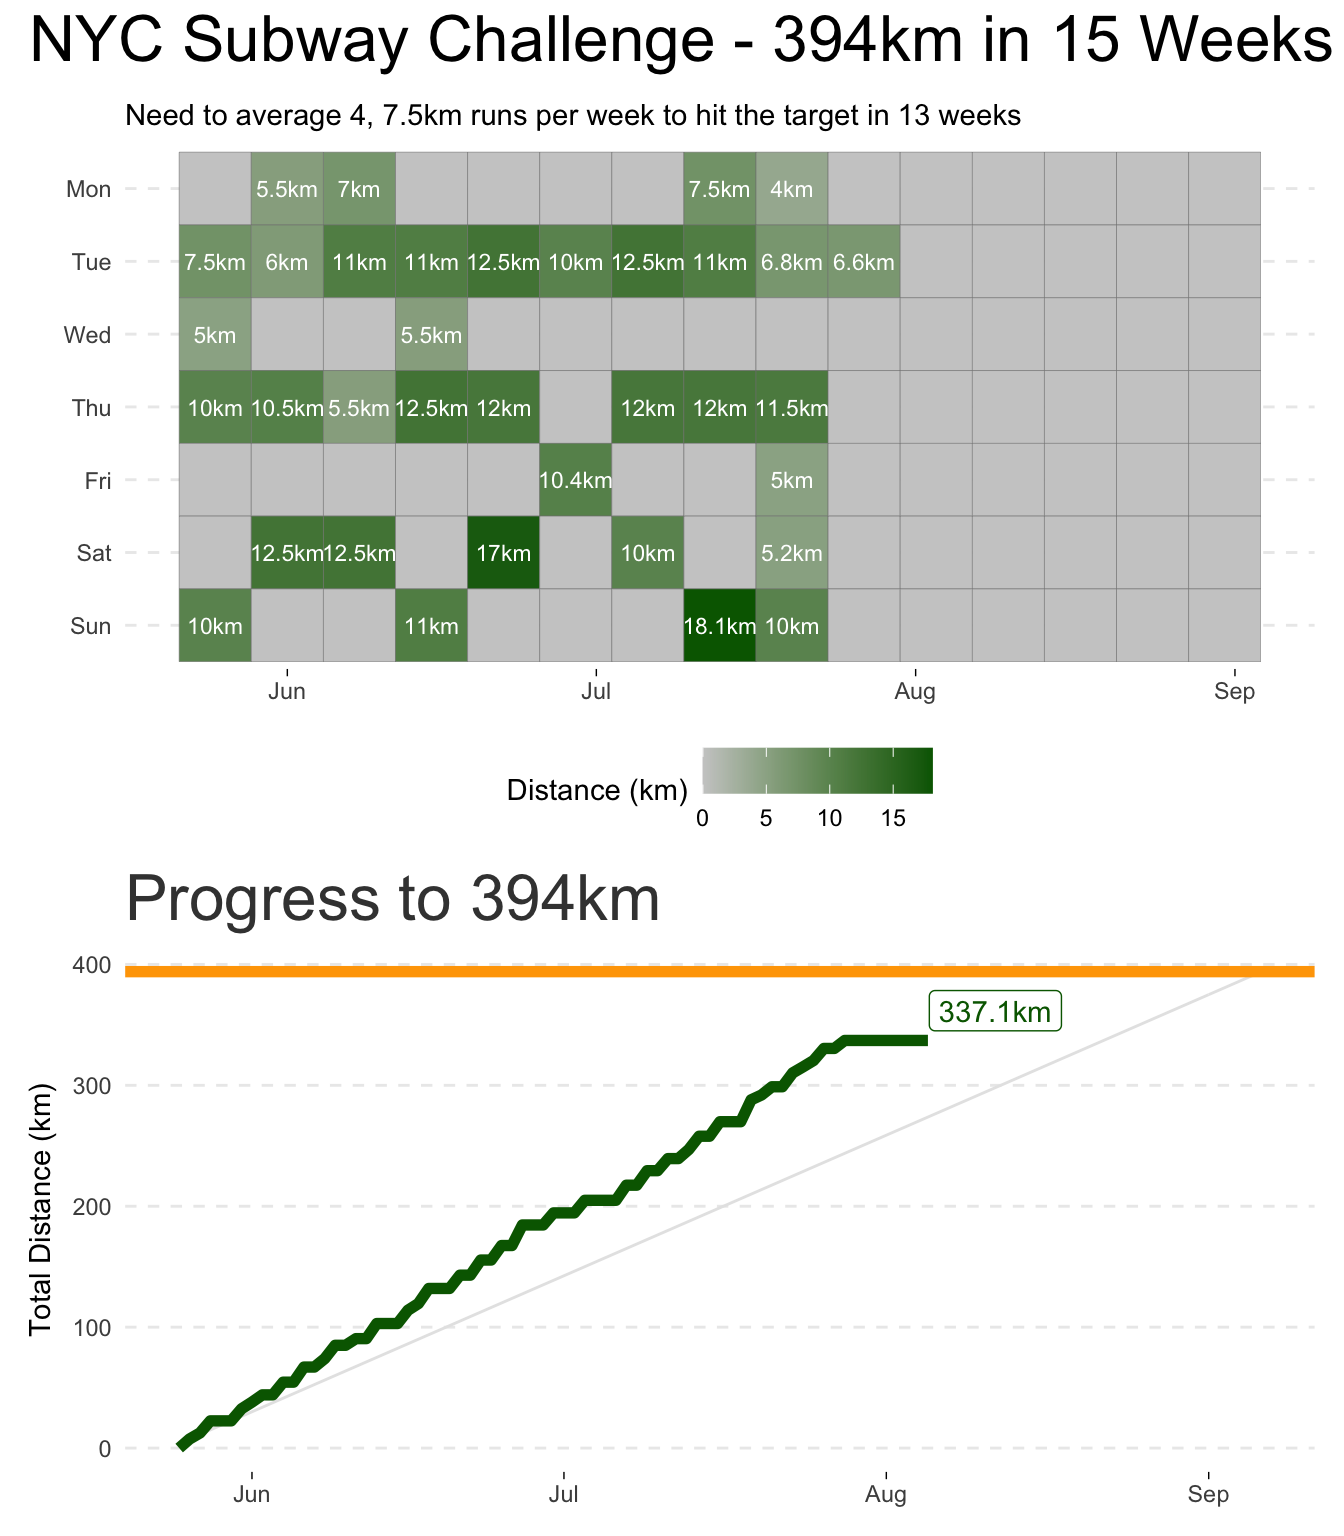
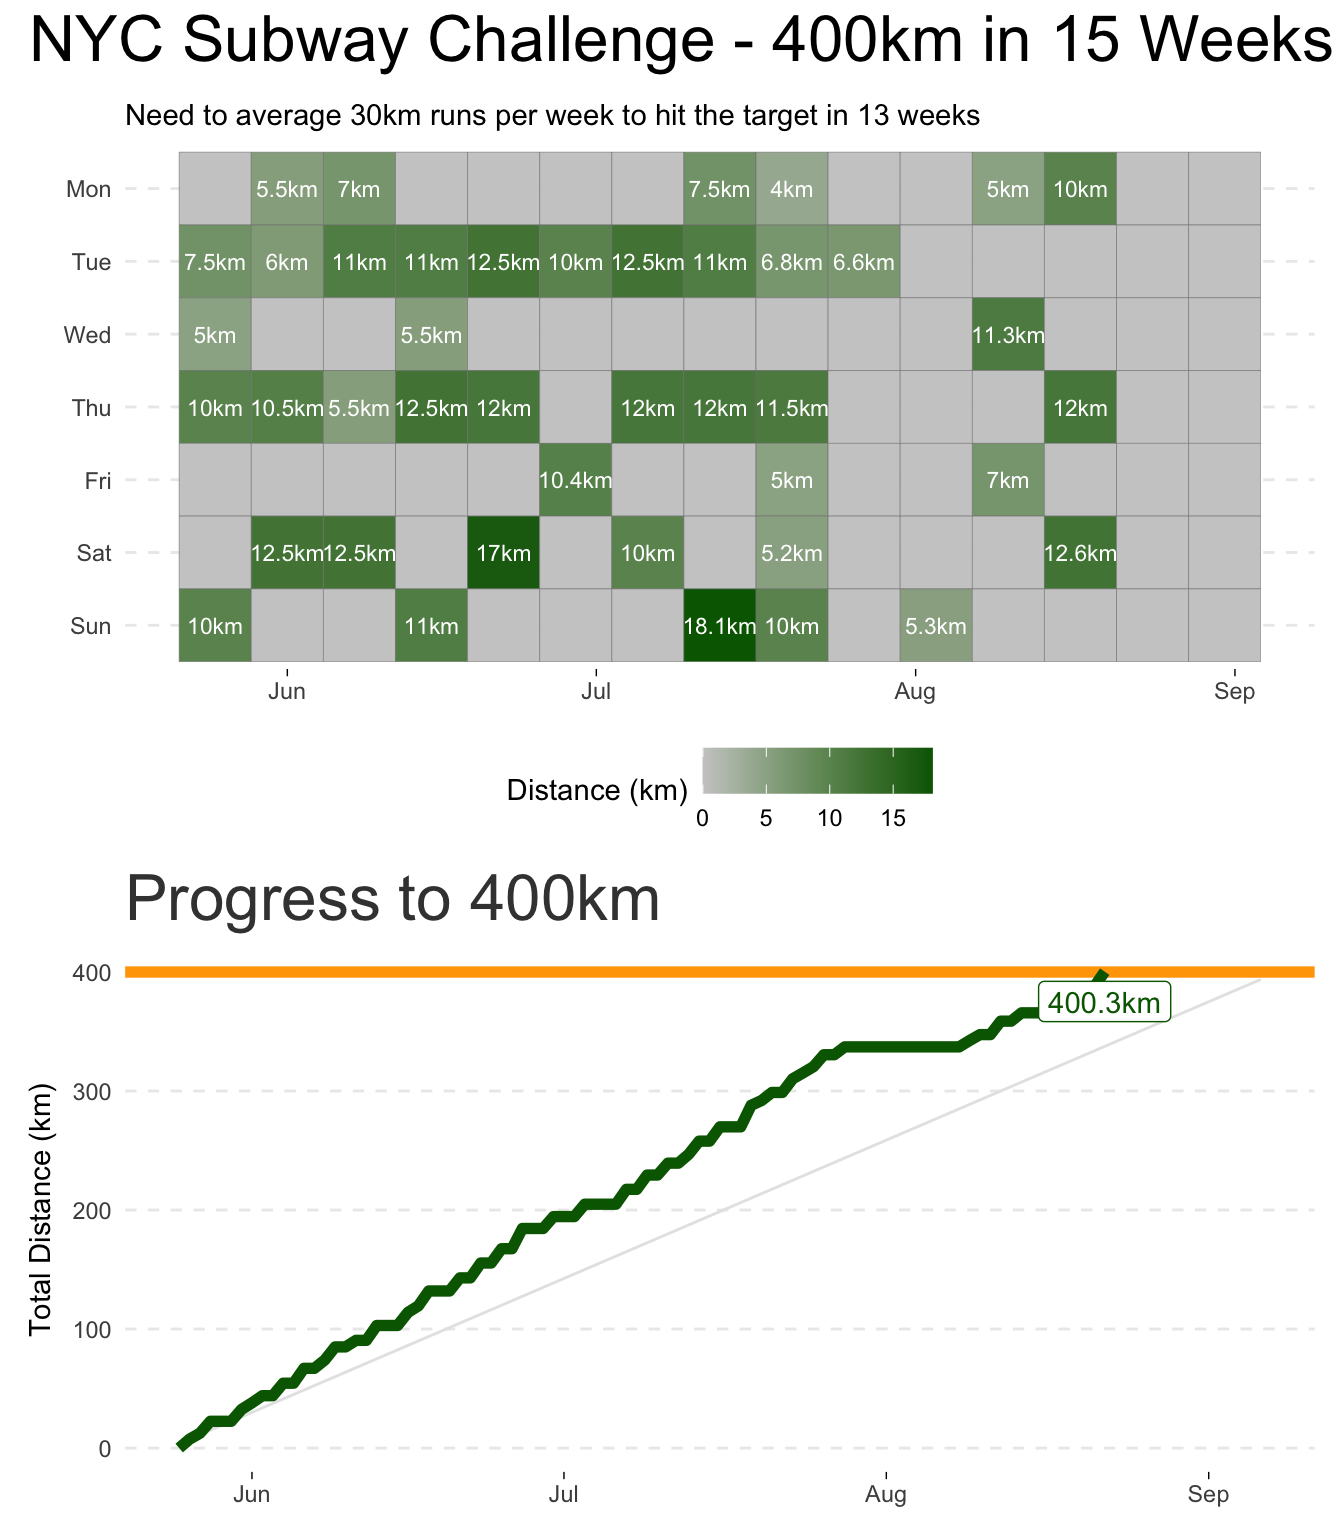
update NYC post

diff --git a/content/post/subway_challenge_2020/index.html b/content/post/subway_challenge_2020/index.html
@@ -1,14 +1,14 @@
 ---
 title: NYC Runs Subway Challenge 2020 - Pulling data from the Strava API
 author: Wal
-date: '2020-06-01'
+date: '2020-08-22'
 categories:
   - fitness
 tags:
   - running
   - strava
-lastmod: '2020-06-02T16:15:12+01:00'
-featured: no
+lastmod: '2020-08-22T08:01:00+01:00'
+featured: yes
 draft: no
 image:
   caption: ''
@@ -18,13 +18,13 @@ image:
 
 
 
-<p>I’ve signed up to the <a href="https://nycruns.com/race/nycruns-subway-system-challenge">NYC Runs Subway Challenge</a> which involves running a total of 245 miles / 394 kilometers in the 15 weeks between Memorial Day (25th May 2020) and Labour Day (7th September 2020).</p>
-<p>I need to average 4 weekly runs totaling 30km per week to give me a bit of buffer (will complete in 13 weeks) in case my schedule goes awry.</p>
-<p>I’m tracking my progress by pulling my running data down from the strava API and monitoring it below</p>
+<p>My lockdown fitness challenge was the <a href="https://nycruns.com/race/nycruns-subway-system-challenge">NYC Runs Subway Challenge</a> which involves running a total of 245 miles / 400 kilometres in the 15 weeks between Memorial Day (25th May 2020) and Labour Day (7th September 2020).</p>
+<p>I averaged 30km per week and got things done 2 weeks early, despite a glute injury at week 10 :roll_eyes: which kept me out of action for 10 days.</p>
+<p>To keep me motivated and on track I pulled my running data down regularly from the <a href="http://developers.strava.com/">Strava API</a> and monitored progress along the way using the charts below which</p>
 <p><img src="/post/subway_challenge_2020/index_files/figure-html/progress_chart-1.png" width="672" /></p>
 <div id="pulling-activity-data-from-the-strava-api-using-r" class="section level2">
 <h2>Pulling activity data from the Strava API using R</h2>
-<p>The <a href="https://developers.strava.com/docs/reference/">Strava API</a> is straight forward to query once you get over the authenttication hurdles. I use R to query the API to generate the the above charts.</p>
+<p>The <a href="https://developers.strava.com/docs/reference/">Strava API</a> is straight forward to query once you get over the authentication hurdles. I use R to query the API to generate the the above charts.</p>
 <div id="oauth-authentication" class="section level3">
 <h3>OAuth Authentication</h3>
 <p>To query the API you need an OAuth token. The <a href="https://developers.strava.com/docs/authentication/">Strava OAuth documentation</a> is comprehensive but in summary the steps are</p>
